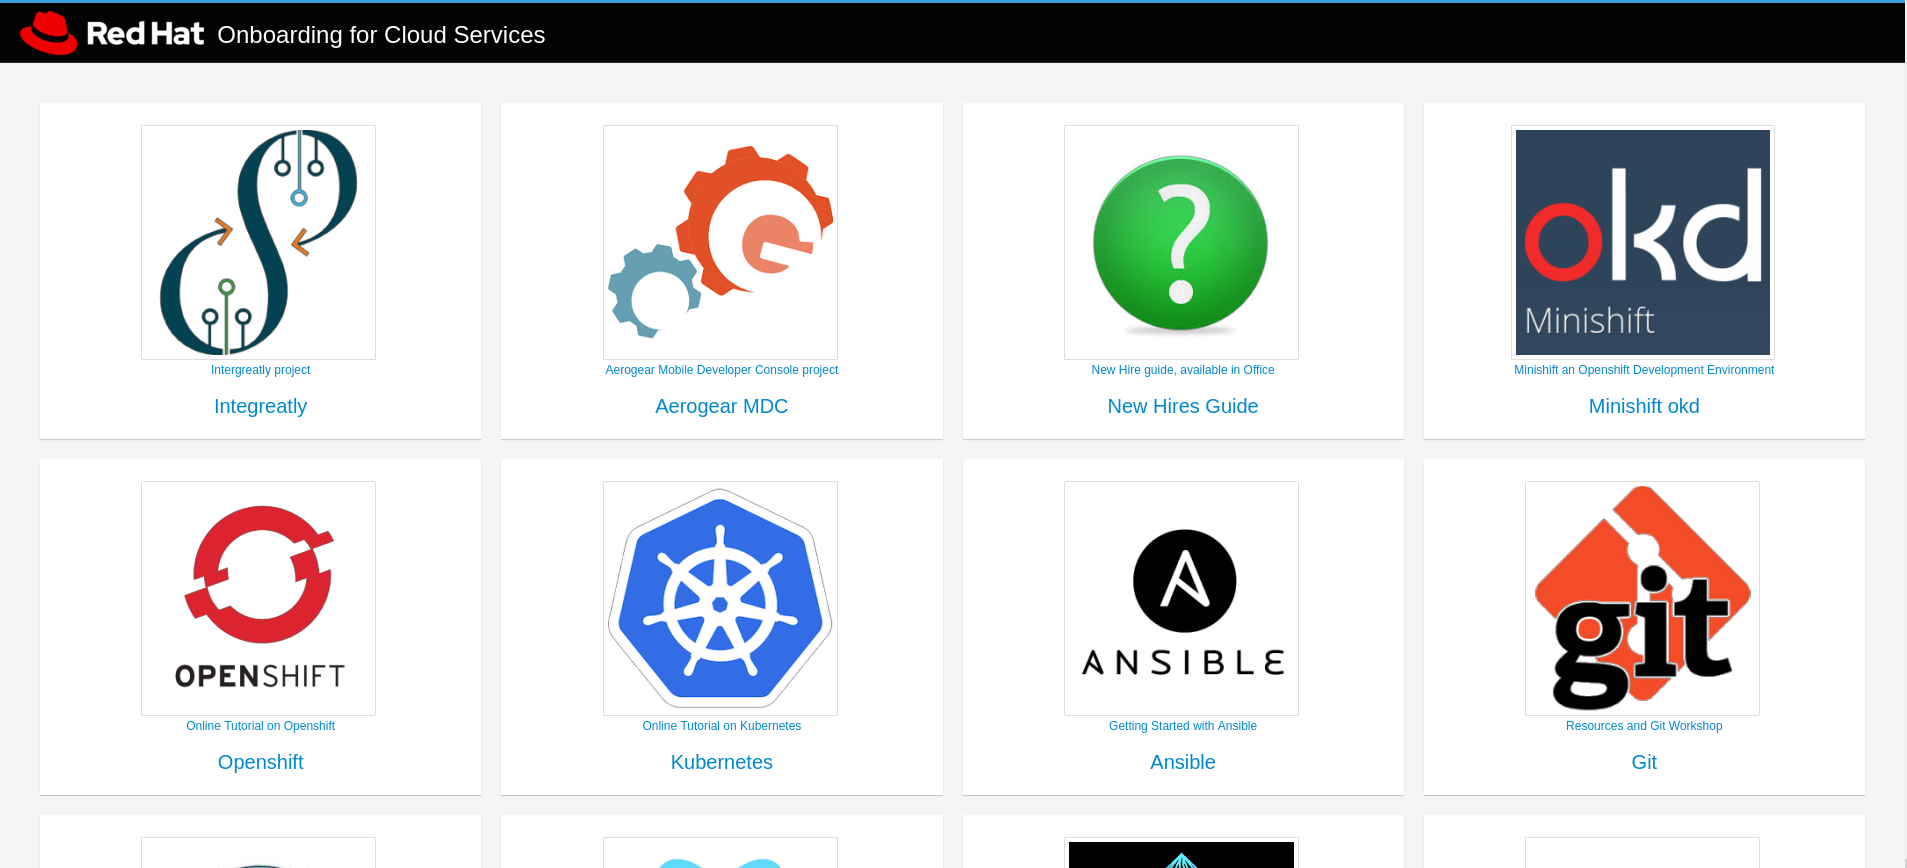
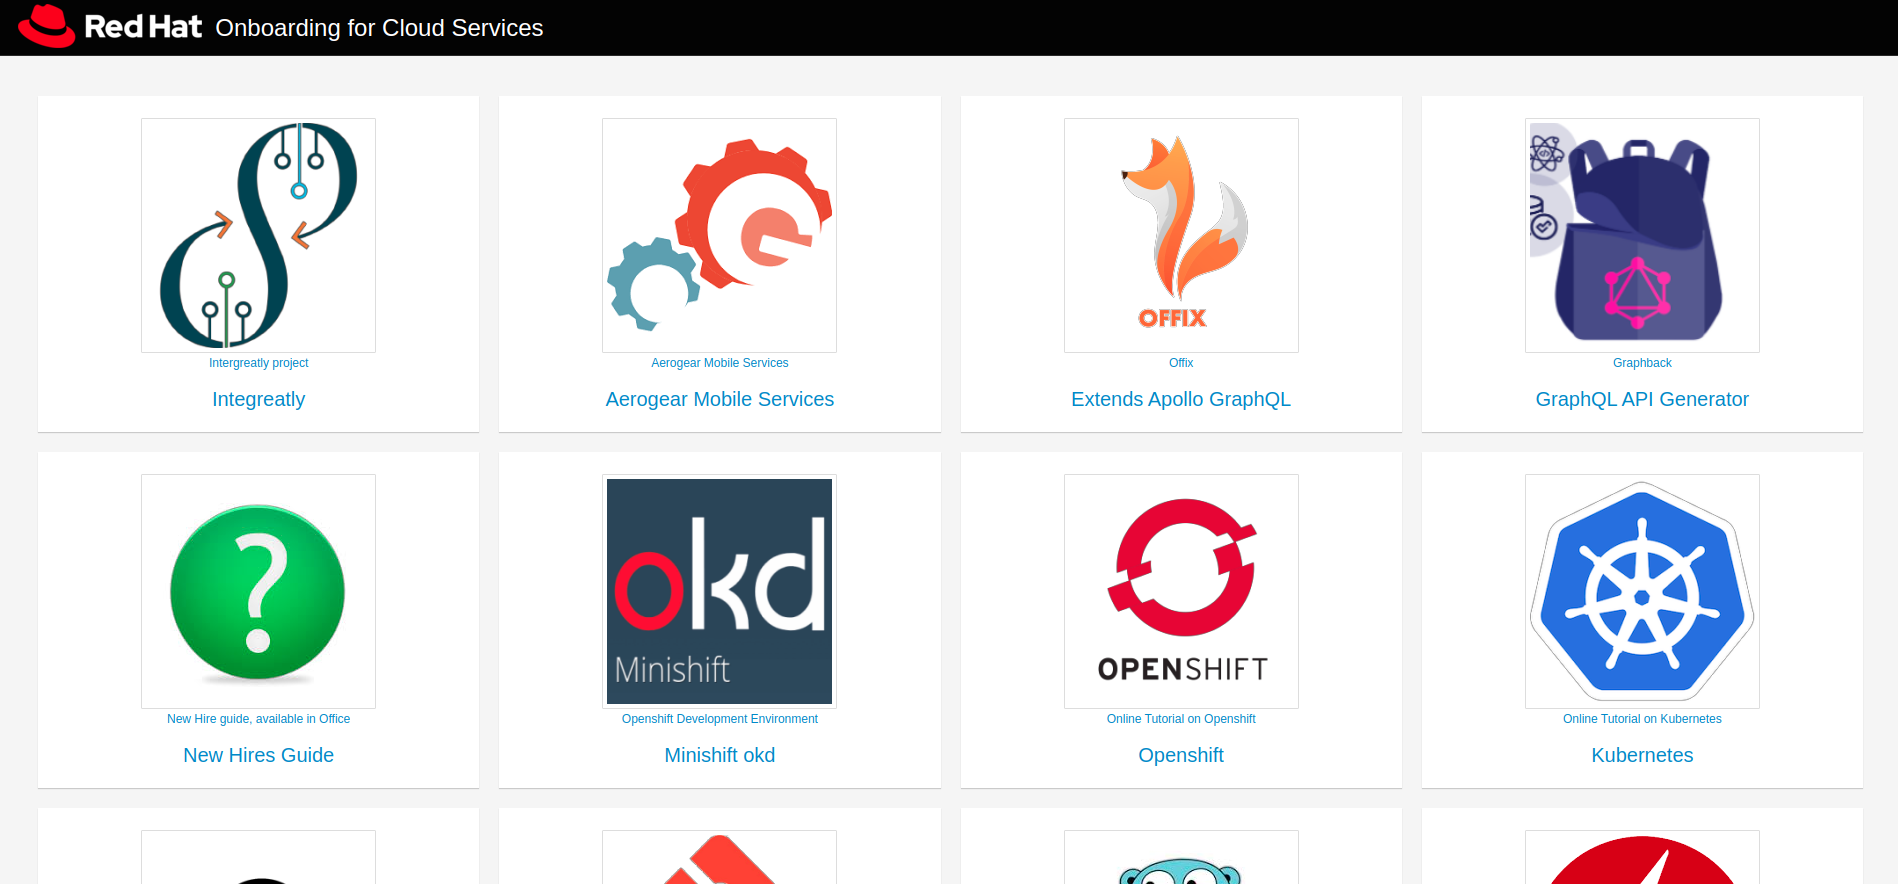
add offix, graphback, operatorsdk"

diff --git a/index.html b/index.html
@@ -31,13 +31,13 @@
   <div class="row row-cards-pf">
 
       <div class="col-xs-12 col-sm-6 col-md-4 col-lg-3">
-          <div class="card-pf card-pf-view card-pf-view-select card-pf-view-single-select">
-            <a href="https://github.com/integr8ly">
-              <div class="card-pf-body">
-                <div class="card-pf-top-element text-center">
-                  <img src="./assets/integreatly.png" class="img-thumbnail">
-                  <br>Intergreatly project</br>
-                </div>
+        <div class="card-pf card-pf-view card-pf-view-select card-pf-view-single-select">
+          <a href="https://github.com/integr8ly">
+            <div class="card-pf-body">
+              <div class="card-pf-top-element text-center">
+                <img src="./assets/integreatly.png" class="img-thumbnail">
+                <br>Intergreatly project</br>
+              </div>
                 <h2 class="card-pf-title text-center">
                   Integreatly 
                 </h2>
@@ -55,10 +55,48 @@
               <div class="card-pf-body">
                 <div class="card-pf-top-element text-center">
[1 lines of base64/hex data omitted]
-                  <br>Aerogear Mobile Developer Console project</br>
+                  <br>Aerogear Mobile Services</br>
                 </div>
                 <h2 class="card-pf-title text-center">
-                  Aerogear MDC 
+                  Aerogear Mobile Services 
+                </h2>
+              </div>
+            </a>
+            <div class="card-pf-view-checkbox">
+              <input type="checkbox">
+            </div>
+          </div>
+        </div>
+
+        <div class="col-xs-12 col-sm-6 col-md-4 col-lg-3">
+          <div class="card-pf card-pf-view card-pf-view-select card-pf-view-single-select">
+            <a href="https://offix.dev/">
+              <div class="card-pf-body">
+                <div class="card-pf-top-element text-center">
+                  <img src="./assets/offix.png" class="img-thumbnail">
+                  <br>Offix</br>
+                </div>
+                <h2 class="card-pf-title text-center">
+                  Extends Apollo GraphQL 
+                </h2>
+              </div>
+            </a>
+            <div class="card-pf-view-checkbox">
+              <input type="checkbox">
+            </div>
+          </div>
+        </div>
+
+        <div class="col-xs-12 col-sm-6 col-md-4 col-lg-3">
+          <div class="card-pf card-pf-view card-pf-view-select card-pf-view-single-select">
+            <a href="https://graphback.dev/">
+              <div class="card-pf-body">
+                <div class="card-pf-top-element text-center">
+                  <img src="./assets/graphback.png" class="img-thumbnail">
+                  <br>Graphback</br>
+                </div>
+                <h2 class="card-pf-title text-center">
+                  GraphQL API Generator
                 </h2>
               </div>
             </a>
@@ -70,7 +108,7 @@
   
         <div class="col-xs-12 col-sm-6 col-md-4 col-lg-3">
           <div class="card-pf card-pf-view card-pf-view-select card-pf-view-single-select">
-            <a href="https://github.com/fheng/help#new-hires">
+            <a href="https://github.com/RHCloudServices/integreatly-help/tree/master/new-hires">
               <div class="card-pf-body">
                 <div class="card-pf-top-element text-center">
                   <img src="https://encrypted-tbn0.gstatic.com/images?q=tbn:ANd9GcROb-Y8qRZgzDmmJ1NfJeNhgskh4_BAuQFmy0pbc45W5Oei1scNYQ" class="img-thumbnail">
@@ -88,23 +126,23 @@
         </div>
 
         <div class="col-xs-12 col-sm-6 col-md-4 col-lg-3">
-            <div class="card-pf card-pf-view card-pf-view-select card-pf-view-single-select">
-              <a href="https://docs.okd.io/latest/minishift/getting-started/preparing-to-install.html">
-                <div class="card-pf-body">
-                  <div class="card-pf-top-element text-center">
-                    <img src="./assets/minishift.png" class="img-thumbnail">
-                    <br>Minishift an Openshift Development Environment</br>
-                  </div>
-                  <h2 class="card-pf-title text-center">
-                    Minishift okd
-                  </h2>
+          <div class="card-pf card-pf-view card-pf-view-select card-pf-view-single-select">
+            <a href="https://docs.okd.io/latest/minishift/getting-started/preparing-to-install.html">
+              <div class="card-pf-body">
+                <div class="card-pf-top-element text-center">
+                  <img src="./assets/minishift.png" class="img-thumbnail">
+                  <br>Openshift Development Environment</br>
                 </div>
-              </a>
-              <div class="card-pf-view-checkbox">
-                <input type="checkbox">
+                <h2 class="card-pf-title text-center">
+                  Minishift okd
+                </h2>
               </div>
+            </a>
+            <div class="card-pf-view-checkbox">
+              <input type="checkbox">
             </div>
           </div>
+        </div>
     
     <div class="col-xs-12 col-sm-6 col-md-4 col-lg-3">
       <div class="card-pf card-pf-view card-pf-view-select card-pf-view-single-select">
@@ -193,6 +231,26 @@
             </div>
             <h2 class="card-pf-title text-center">
               Golang
+            </h2>
+          </div>
+        </a>
+        <div class="card-pf-view-checkbox">
+          <input type="checkbox">
+        </div>
+      </div>
+    </div>
+
+    <div class="col-xs-12 col-sm-6 col-md-4 col-lg-3">
+      <div class="card-pf card-pf-view card-pf-view-select card-pf-view-single-select">
+        <a href="https://coreos.com/operators/">
+          <div class="card-pf-body">
+            <div class="card-pf-top-element text-center">
+                  <img src="./assets/operatorsdk.png" class="img-thumbnail">
+                <br>Operator SDK</br>
+                
+            </div>
+            <h2 class="card-pf-title text-center">
+              The Operator Framework
             </h2>
           </div>
         </a>
